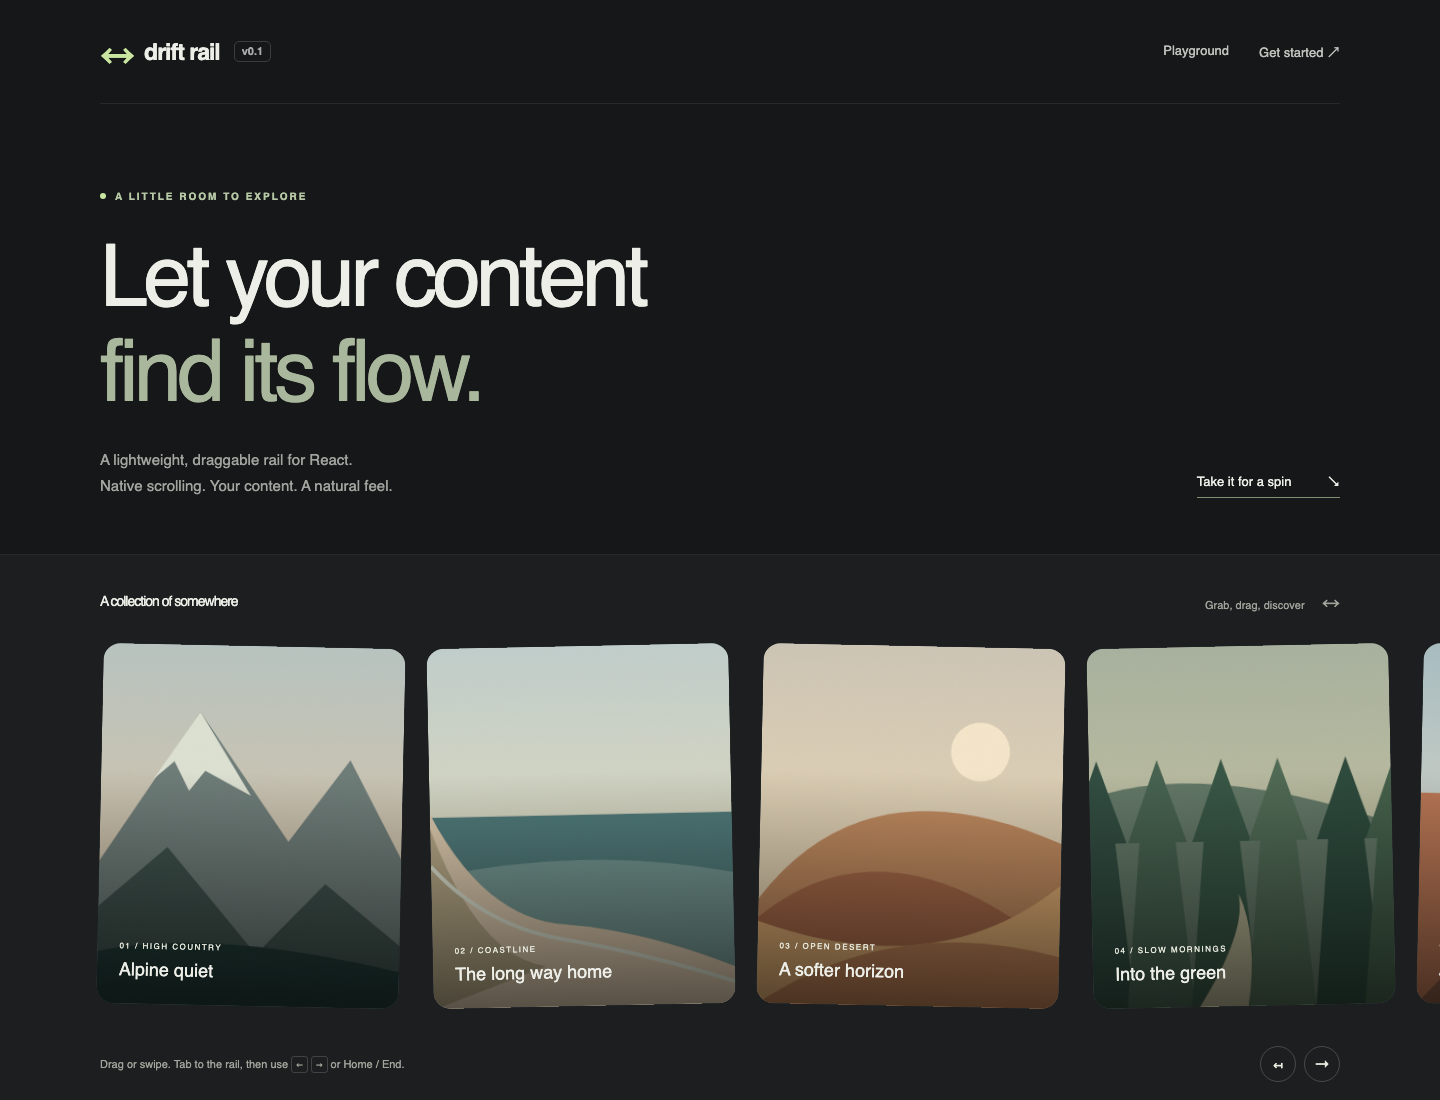
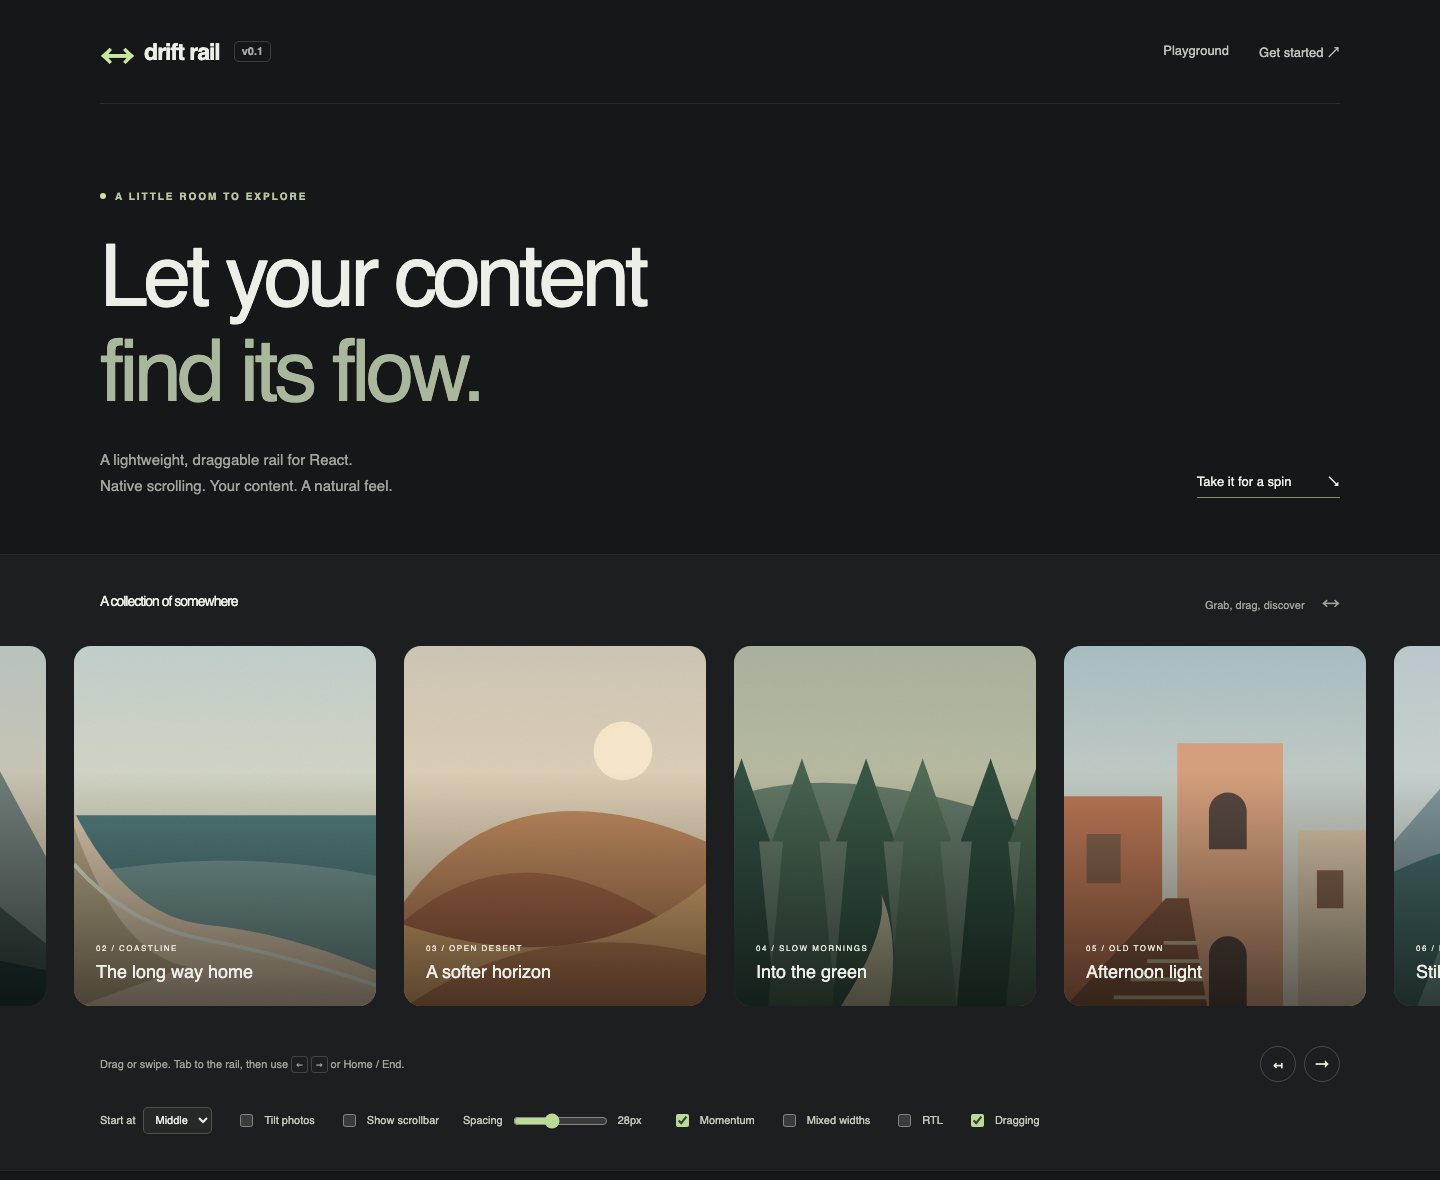
feat: add playground controls for position, tilt, and scrollbars

diff --git a/tests/e2e/rail.spec.ts b/tests/e2e/rail.spec.ts
@@ -16,6 +16,7 @@ async function drag(page: Page, rail: Locator, delta = -180) {
 test.beforeEach(async ({ page }) => {
   await page.goto('/');
   await page.getByLabel('Momentum', { exact: true }).uncheck();
+  await page.getByLabel('Start at', { exact: true }).selectOption('start');
 });
 test('mouse dragging moves real scroll position and emits one completion', async ({ page }) => {
   const rail = page.getByTestId('main-rail');
@@ -139,4 +140,114 @@ test('native touch pans the rail and page without custom callbacks', async ({
   await session.send('Input.dispatchTouchEvent', { type: 'touchEnd', touchPoints: [] });
   await expect.poll(() => page.evaluate(() => window.scrollY)).toBeGreaterThan(before + 30);
   await session.detach();
+});
+
+async function expectCentered(rail: Locator) {
+  await expect
+    .poll(() =>
+      rail.evaluate((element) =>
+        Math.abs(Math.abs(element.scrollLeft) - (element.scrollWidth - element.clientWidth) / 2),
+      ),
+    )
+    .toBeLessThan(2);
+}
+test('opens in the middle on a fresh visit and drags both ways', async ({ page }) => {
+  await page.reload();
+  await page.getByLabel('Momentum', { exact: true }).uncheck();
+  const rail = page.getByTestId('main-rail');
+  await expectCentered(rail);
+  const middle = await offset(rail);
+  await drag(page, rail, -100);
+  expect(await offset(rail)).toBeGreaterThan(middle + 80);
+  await drag(page, rail, 200);
+  expect(await offset(rail)).toBeLessThan(middle - 80);
+});
+test('supports middle and end starts in RTL', async ({ page }) => {
+  await page.getByLabel('Start at', { exact: true }).selectOption('center');
+  await page.getByLabel('RTL', { exact: true }).check();
+  const rail = page.getByTestId('main-rail');
+  await expectCentered(rail);
+  const middle = await offset(rail);
+  expect(middle).toBeLessThan(0);
+  await drag(page, rail, -80);
+  expect(await offset(rail)).toBeGreaterThan(middle + 60);
+  await page.getByLabel('Start at', { exact: true }).selectOption('end');
+  await expect
+    .poll(() =>
+      rail.evaluate((element) =>
+        Math.abs(element.scrollLeft + element.scrollWidth - element.clientWidth),
+      ),
+    )
+    .toBeLessThan(2);
+});
+test('can show flat or tilted photos without resetting the viewport', async ({ page }) => {
+  const rail = page.getByTestId('main-rail');
+  const photo = rail.locator('figure').first();
+  await expect(photo).toHaveCSS('transform', 'none');
+  await drag(page, rail);
+  const before = await offset(rail);
+  await page.getByLabel('Tilt photos', { exact: true }).check();
+  await expect(photo).not.toHaveCSS('transform', 'none');
+  expect(Math.abs((await offset(rail)) - before)).toBeLessThan(2);
+  await page.getByLabel('Tilt photos', { exact: true }).uncheck();
+  await expect(photo).toHaveCSS('transform', 'none');
+});
+test('hides all rail scrollbars while retaining drag, keyboard, and focus', async ({
+  page,
+  browserName,
+}) => {
+  const rail = page.getByTestId('main-rail');
+  await expect(rail).toHaveCSS('scrollbar-width', 'none');
+  await expect(rail).toHaveCSS('overflow-x', 'auto');
+  if (browserName !== 'firefox')
+    expect(
+      await rail.evaluate((element) => getComputedStyle(element, '::-webkit-scrollbar').display),
+    ).toBe('none');
+  await expect(page.locator('.progress')).toHaveCount(0);
+  await drag(page, rail);
+  expect(await offset(rail)).toBeGreaterThan(100);
+  await rail.focus();
+  await page.keyboard.press('Home');
+  expect(await offset(rail)).toBe(0);
+  await expect(rail).toBeFocused();
+  // Some automated/browser environments suppress scrollbars regardless of authored CSS.
+  const visibleScrollbarWidth = await page.evaluate(() => {
+    const probe = document.createElement('div');
+    probe.style.scrollbarWidth = 'thin';
+    document.body.append(probe);
+    const value = getComputedStyle(probe).scrollbarWidth;
+    probe.remove();
+    return value;
+  });
+  await page.getByLabel('Show scrollbar', { exact: true }).check();
+  await expect(rail).not.toHaveAttribute('data-scrollbar-hidden');
+  await expect(rail).toHaveCSS('scrollbar-width', visibleScrollbarWidth);
+  await expect(page.locator('.progress')).toHaveCount(1);
+});
+test('tracks late image sizing and new items until the reader interacts', async ({ page }) => {
+  let imageRequest: import('@playwright/test').Route | undefined;
+  await page.route('**/late-image.svg', (route) => {
+    imageRequest = route;
+  });
+  await page.goto('/position-fixture.html', { waitUntil: 'domcontentloaded' });
+  const rail = page.getByRole('region', { name: 'Position fixture' });
+  await expect(rail).toBeVisible();
+  await expectCentered(rail);
+  const before = await offset(rail);
+  await expect.poll(() => Boolean(imageRequest)).toBe(true);
+  await imageRequest!.fulfill({
+    contentType: 'image/svg+xml',
+    body: '<svg xmlns="http://www.w3.org/2000/svg" width="800" height="100"><rect width="800" height="100" fill="green"/></svg>',
+  });
+  await expect.poll(() => offset(rail)).toBeGreaterThan(before + 100);
+  await expectCentered(rail);
+  await page.getByRole('button', { name: 'Add item' }).click();
+  await expectCentered(rail);
+  await drag(page, rail, -100);
+  const moved = await offset(rail);
+  await page.getByRole('button', { name: 'Add item' }).click();
+  await expect(rail.locator('article')).toHaveCount(5);
+  expect(Math.abs((await offset(rail)) - moved)).toBeLessThan(2);
+  await page.setViewportSize({ width: 800, height: 900 });
+  await expect.poll(() => offset(rail)).toBeCloseTo(moved, 0);
 });

diff --git a/examples/react/src/main.tsx b/examples/react/src/main.tsx
@@ -16,6 +16,9 @@ const scenes = [
 function App() {
   const rail = useRef<HTMLDivElement>(null);
   const [gap, setGap] = useState(28);
+  const [initialPosition, setInitialPosition] = useState<'start' | 'center' | 'end'>('center');
+  const [tilted, setTilted] = useState(false);
+  const [hideScrollbar, setHideScrollbar] = useState(true);
   const [momentum, setMomentum] = useState(true);
   const [enabled, setEnabled] = useState(true);
   const [rtl, setRtl] = useState(false);
@@ -70,8 +73,11 @@ function App() {
             </span>
           </div>
           <DraggableRail
+            key={`${initialPosition}-${rtl}`}
             ref={rail}
-            className={`photo-rail ${varied ? 'varied' : ''}`}
+            initialPosition={initialPosition}
+            hideScrollbar={hideScrollbar}
+            className={`photo-rail ${varied ? 'varied' : ''} ${tilted ? 'tilted' : ''}`}
             gap={gap}
             momentum={momentum}
             dragEnabled={enabled}
@@ -123,10 +129,44 @@ function App() {
               </button>
             </div>
           </div>
-          <div className="progress shell" aria-hidden="true">
-            <span style={{ width: `${Math.max(4, progress * 100)}%` }} />
-          </div>
+          {!hideScrollbar && (
+            <div className="progress shell" aria-hidden="true">
+              <span style={{ width: `${Math.max(4, progress * 100)}%` }} />
+            </div>
+          )}
           <div className="options shell" aria-label="Rail settings">
+            <label>
+              Start at
+              <select
+                aria-label="Start at"
+                value={initialPosition}
+                onChange={(event) => {
+                  setInitialPosition(event.target.value as 'start' | 'center' | 'end');
+                  setProgress(0);
+                  setDragging(false);
+                }}
+              >
+                <option value="start">Start</option>
+                <option value="center">Middle</option>
+                <option value="end">End</option>
+              </select>
+            </label>
+            <label>
+              <input
+                type="checkbox"
+                checked={tilted}
+                onChange={(event) => setTilted(event.target.checked)}
+              />{' '}
+              Tilt photos
+            </label>
+            <label>
+              <input
+                type="checkbox"
+                checked={!hideScrollbar}
+                onChange={(event) => setHideScrollbar(!event.target.checked)}
+              />{' '}
+              Show scrollbar
+            </label>
             <label className="gap-control">
               Spacing{' '}
               <input
@@ -161,7 +201,6 @@ function App() {
                 checked={rtl}
                 onChange={(e) => {
                   setRtl(e.target.checked);
-                  rail.current?.scrollTo({ left: 0 });
                 }}
               />{' '}
               RTL
@@ -211,6 +250,7 @@ function App() {
           </div>
           <DraggableRail
             gap={12}
+            hideScrollbar={hideScrollbar}
             aria-label="Travel notes"
             data-testid="cards-rail"
             className="cards-rail"
@@ -281,7 +321,7 @@ function App() {
               <span>React + TypeScript</span>
             </div>
             <pre>
-              <code>{`import { DraggableRail } from 'react-drift-rail';\nimport 'react-drift-rail/styles.css';\n\n<DraggableRail aria-label="A few favorites" gap={28}>\n  {photos.map(photo => (\n    <img key={photo.id} src={photo.src}\n      alt={photo.alt} width={320} height={380} />\n  ))}\n</DraggableRail>`}</code>
+              <code>{`import { DraggableRail } from 'react-drift-rail';\nimport 'react-drift-rail/styles.css';\n\n<DraggableRail aria-label="A few favorites" gap={28}\n  initialPosition="center" hideScrollbar>\n  {photos.map(photo => (\n    <img key={photo.id} src={photo.src}\n      alt={photo.alt} width={320} height={380} />\n  ))}\n</DraggableRail>`}</code>
             </pre>
           </div>
         </section>

diff --git a/examples/react/src/position-fixture.tsx b/examples/react/src/position-fixture.tsx
@@ -1,0 +1,31 @@
+// Browser-test fixture for content whose width is unknown when the rail mounts.
+import { StrictMode, useState } from 'react';
+import { createRoot } from 'react-dom/client';
+import { DraggableRail } from 'react-drift-rail';
+import 'react-drift-rail/styles.css';
+function Fixture() {
+  const [count, setCount] = useState(3);
+  return (
+    <main>
+      <button onClick={() => setCount((value) => value + 1)}>Add item</button>
+      <DraggableRail
+        initialPosition="center"
+        hideScrollbar
+        aria-label="Position fixture"
+        style={{ width: 400, maxWidth: 'calc(100vw - 32px)' }}
+      >
+        {Array.from({ length: count }, (_, index) => (
+          <article key={index} style={{ width: 300, height: 100, background: '#a4b594' }}>
+            Item {index + 1}
+          </article>
+        ))}
+        <img src="/late-image.svg" alt="Delayed landscape" height={100} />
+      </DraggableRail>
+    </main>
+  );
+}
+createRoot(document.getElementById('root')!).render(
+  <StrictMode>
+    <Fixture />
+  </StrictMode>,
+);

diff --git a/tests/e2e-next/next.spec.ts b/tests/e2e-next/next.spec.ts
@@ -6,6 +6,14 @@ test('built exports hydrate inside an App Router Server Component', async ({ pag
   expect(response?.status()).toBe(200);
   const rail = page.getByRole('region', { name: 'Landscapes rendered with Next Image' });
   await expect(rail.getByRole('img')).toHaveCount(6);
+  await expect
+    .poll(() =>
+      rail.evaluate((element) =>
+        Math.abs(element.scrollLeft - (element.scrollWidth - element.clientWidth) / 2),
+      ),
+    )
+    .toBeLessThan(2);
+  await expect(rail).toHaveCSS('scrollbar-width', 'none');
   await rail.focus();
   await page.keyboard.press('End');
   expect(await rail.evaluate((element) => element.scrollLeft)).toBeGreaterThan(100);

diff --git a/examples/next/app/page.tsx b/examples/next/app/page.tsx
@@ -7,7 +7,12 @@ export default function Page() {
       <p>DRIFT RAIL / NEXT.JS APP ROUTER</p>
       <h1>Your images. Native flow.</h1>
       <p>Drag, swipe, or focus this rail and press the arrow keys.</p>
-      <DraggableRail aria-label="Landscapes rendered with Next Image" gap={24}>
+      <DraggableRail
+        initialPosition="center"
+        hideScrollbar
+        aria-label="Landscapes rendered with Next Image"
+        gap={24}
+      >
         {['alpine', 'coast', 'dunes', 'forest', 'town', 'lake'].map((name) => (
           <Image
             key={name}

diff --git a/examples/react/src/styles.css b/examples/react/src/styles.css
@@ -159,10 +159,10 @@ h1 span {
   overflow: hidden;
   background: #394143;
 }
-.photo:nth-child(2n) {
+.photo-rail.tilted > .photo:nth-child(2n) {
   transform: rotate(-1.2deg);
 }
-.photo:nth-child(2n + 1) {
+.photo-rail.tilted > .photo:nth-child(2n + 1) {
   transform: rotate(1.2deg);
 }
 .photo img {
@@ -534,4 +534,13 @@ footer .brand {
   footer span:last-child {
     width: 100%;
   }
+}
+
+.options select {
+  background: #252925;
+  color: #eceee7;
+  border: 1px solid #ffffff30;
+  border-radius: 5px;
+  font: inherit;
+  padding: 5px 7px;
 }

diff --git a/examples/react/position-fixture.html b/examples/react/position-fixture.html
@@ -1,0 +1,12 @@
+<!doctype html>
+<html lang="en">
+  <head>
+    <meta charset="utf-8" />
+    <meta name="viewport" content="width=device-width,initial-scale=1" />
+    <title>Initial position test fixture</title>
+  </head>
+  <body>
+    <div id="root"></div>
+    <script type="module" src="/src/position-fixture.tsx"></script>
+  </body>
+</html>

diff --git a/README.md b/README.md
@@ -133,6 +133,30 @@ Scrollbars remain visible according to OS preferences by default. Set `hideScrol
 </DraggableRail>
 ```
 
+### Flat or tilted photos
+
+The component renders flat by default; tilt is entirely optional consumer CSS. The playground has a **Tilt photos** checkbox. To reproduce it, toggle a class on your rail:
+
+```tsx
+<DraggableRail className={tilted ? 'gallery gallery--tilted' : 'gallery'} aria-label="Photos">
+  {children}
+</DraggableRail>
+```
+
+```css
+.gallery {
+  padding: 16px 4px;
+}
+.gallery--tilted > :nth-child(odd) {
+  transform: rotate(1.2deg);
+}
+.gallery--tilted > :nth-child(even) {
+  transform: rotate(-1.2deg);
+}
+```
+
+Omit the class for a normal, straight rail. Rotation is not built into the library, so arbitrary cards and consumer transforms remain under your control.
+
 Native inputs, selects, textareas, editable content, audio/video controls, and explicitly draggable elements are excluded from custom dragging. Add `data-rail-no-drag` to any other child area to preserve text selection, custom gestures, or native drag-and-drop there. Links and buttons remain draggable surfaces; a drag suppresses its ensuing pointer click. Tiny movement stays a click, and keyboard activation is preserved. Active dragging prevents selection only inside the rail.
 
 ## Next.js and SSR

diff --git a/CHANGELOG.md b/CHANGELOG.md
@@ -2,6 +2,8 @@
 
 ## 0.1.0 — Unreleased
 
+- Playground controls for initial position, optional photo tilt, and scrollbar visibility.
+
 - Optional hidden scrollbars without disabling scrolling or keyboard access.
 
 - Initial start, center, or end positions, including RTL and late-loading content.
